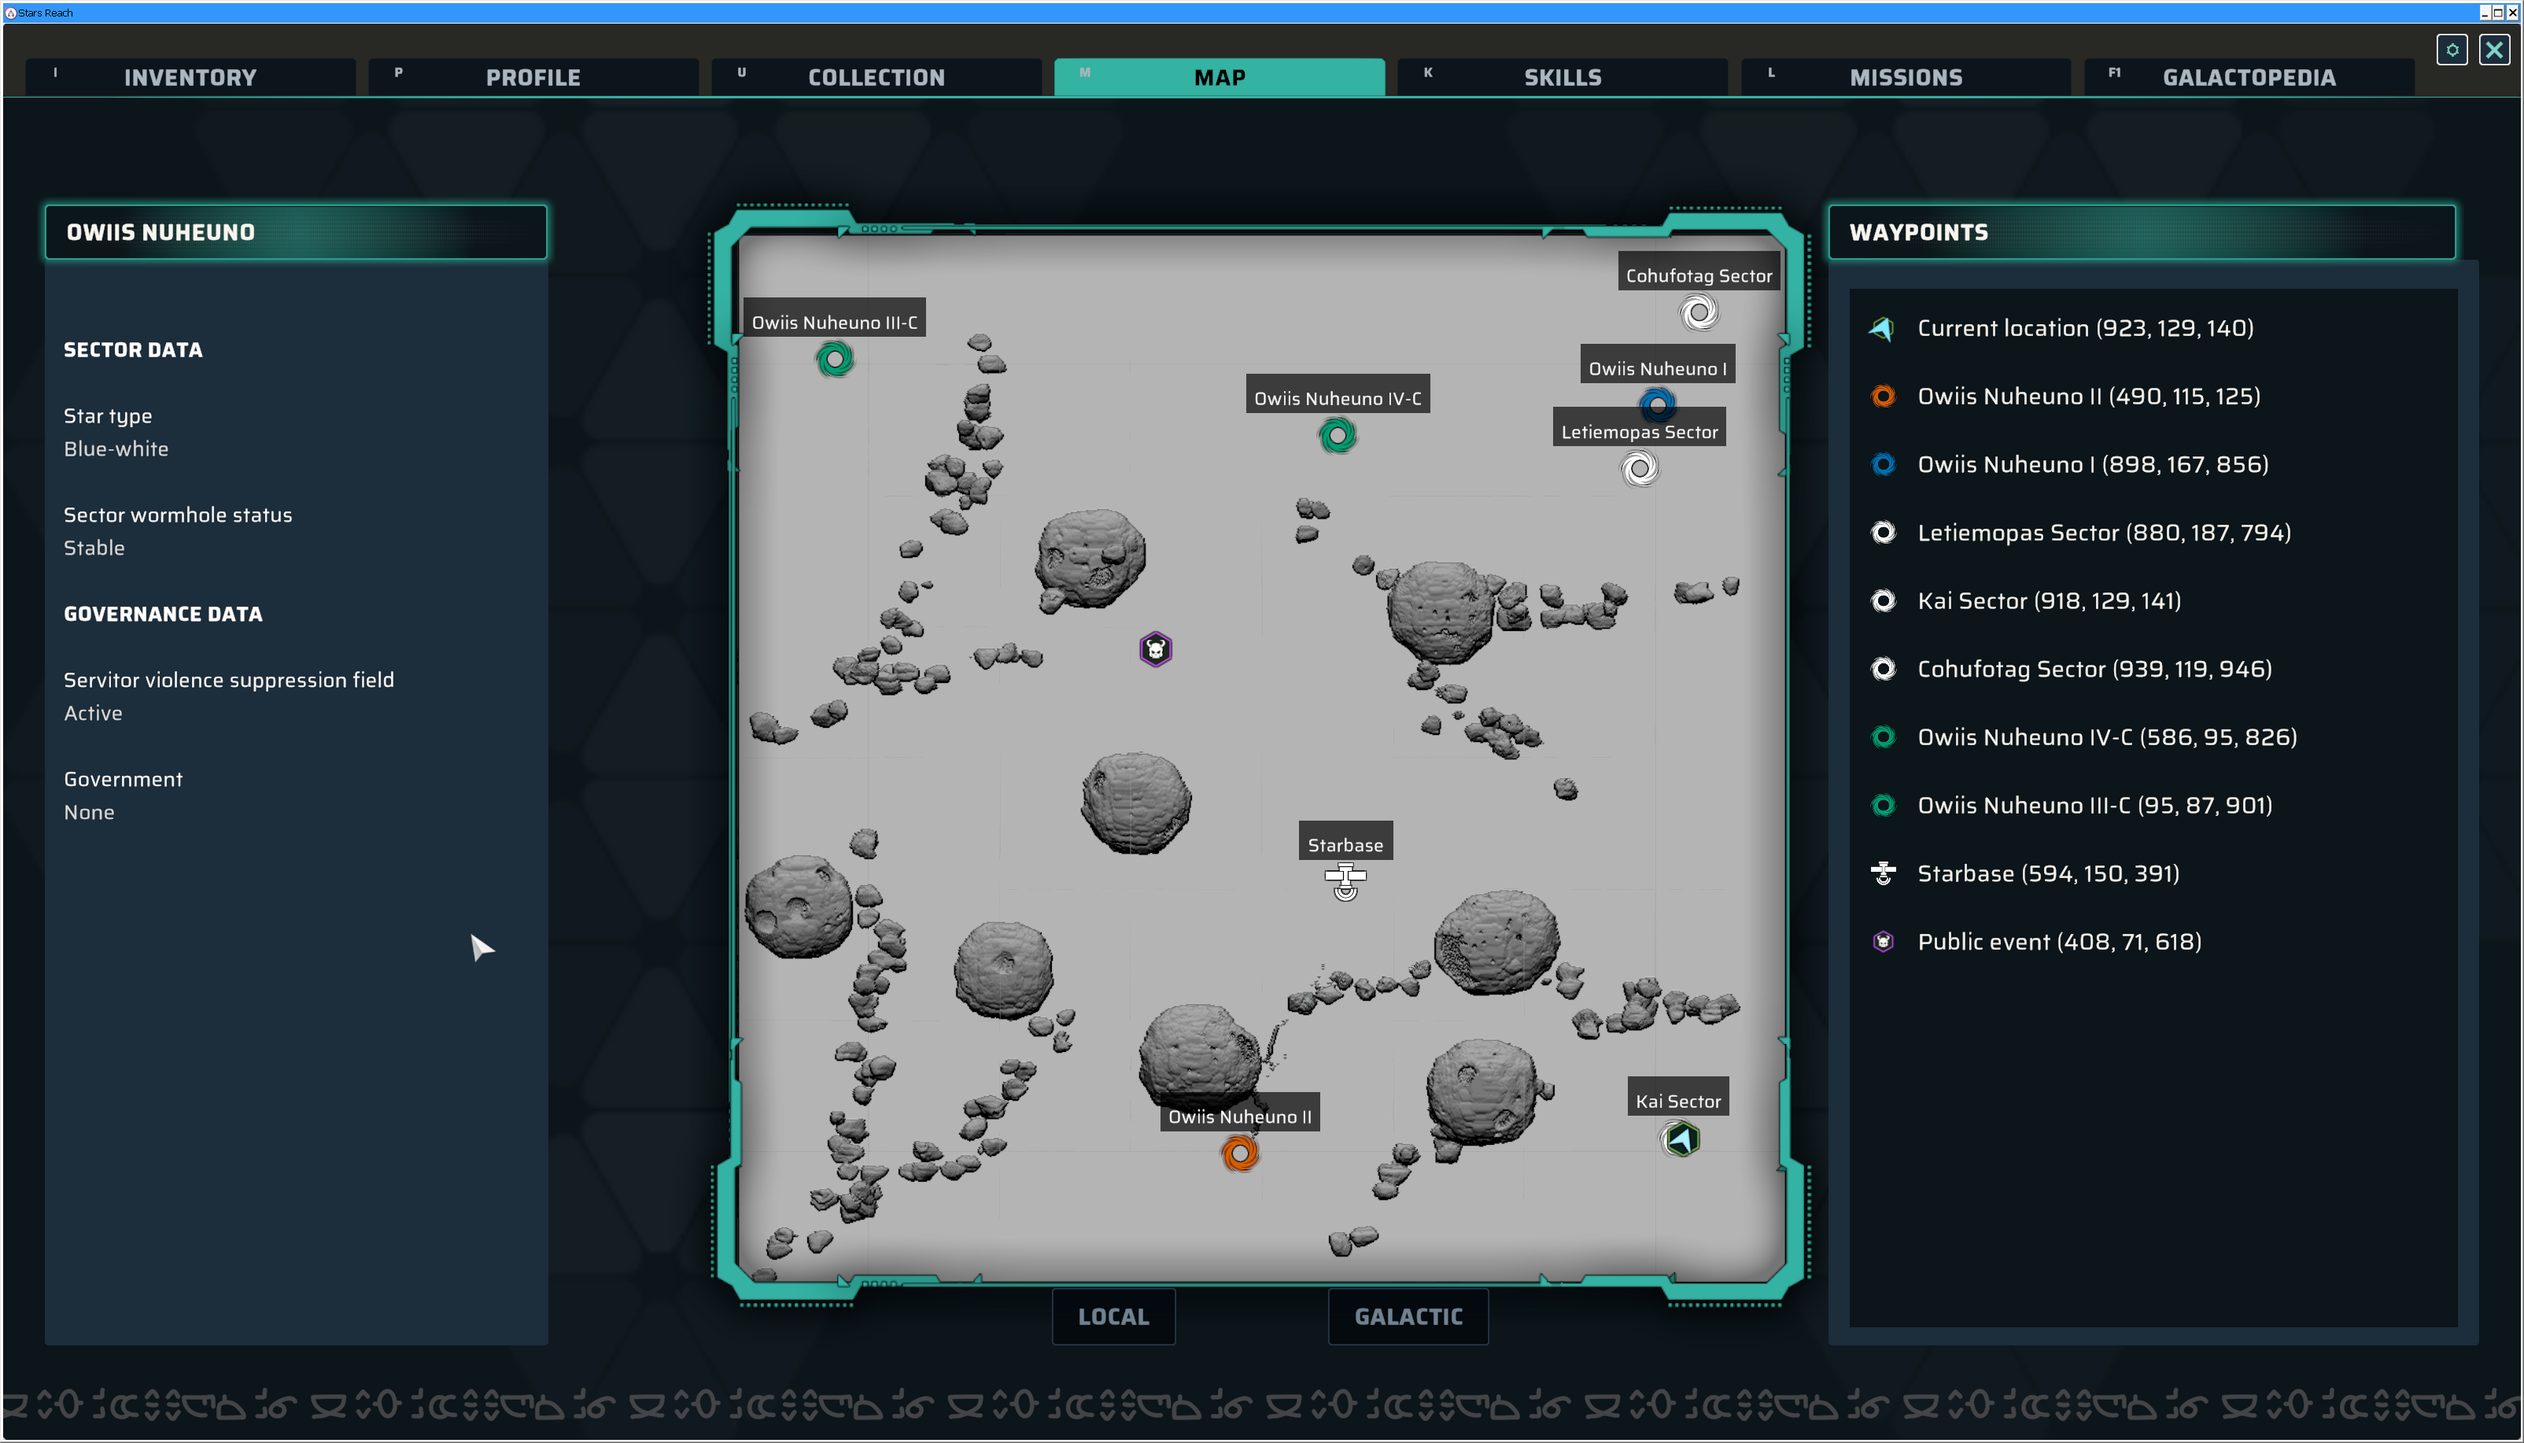
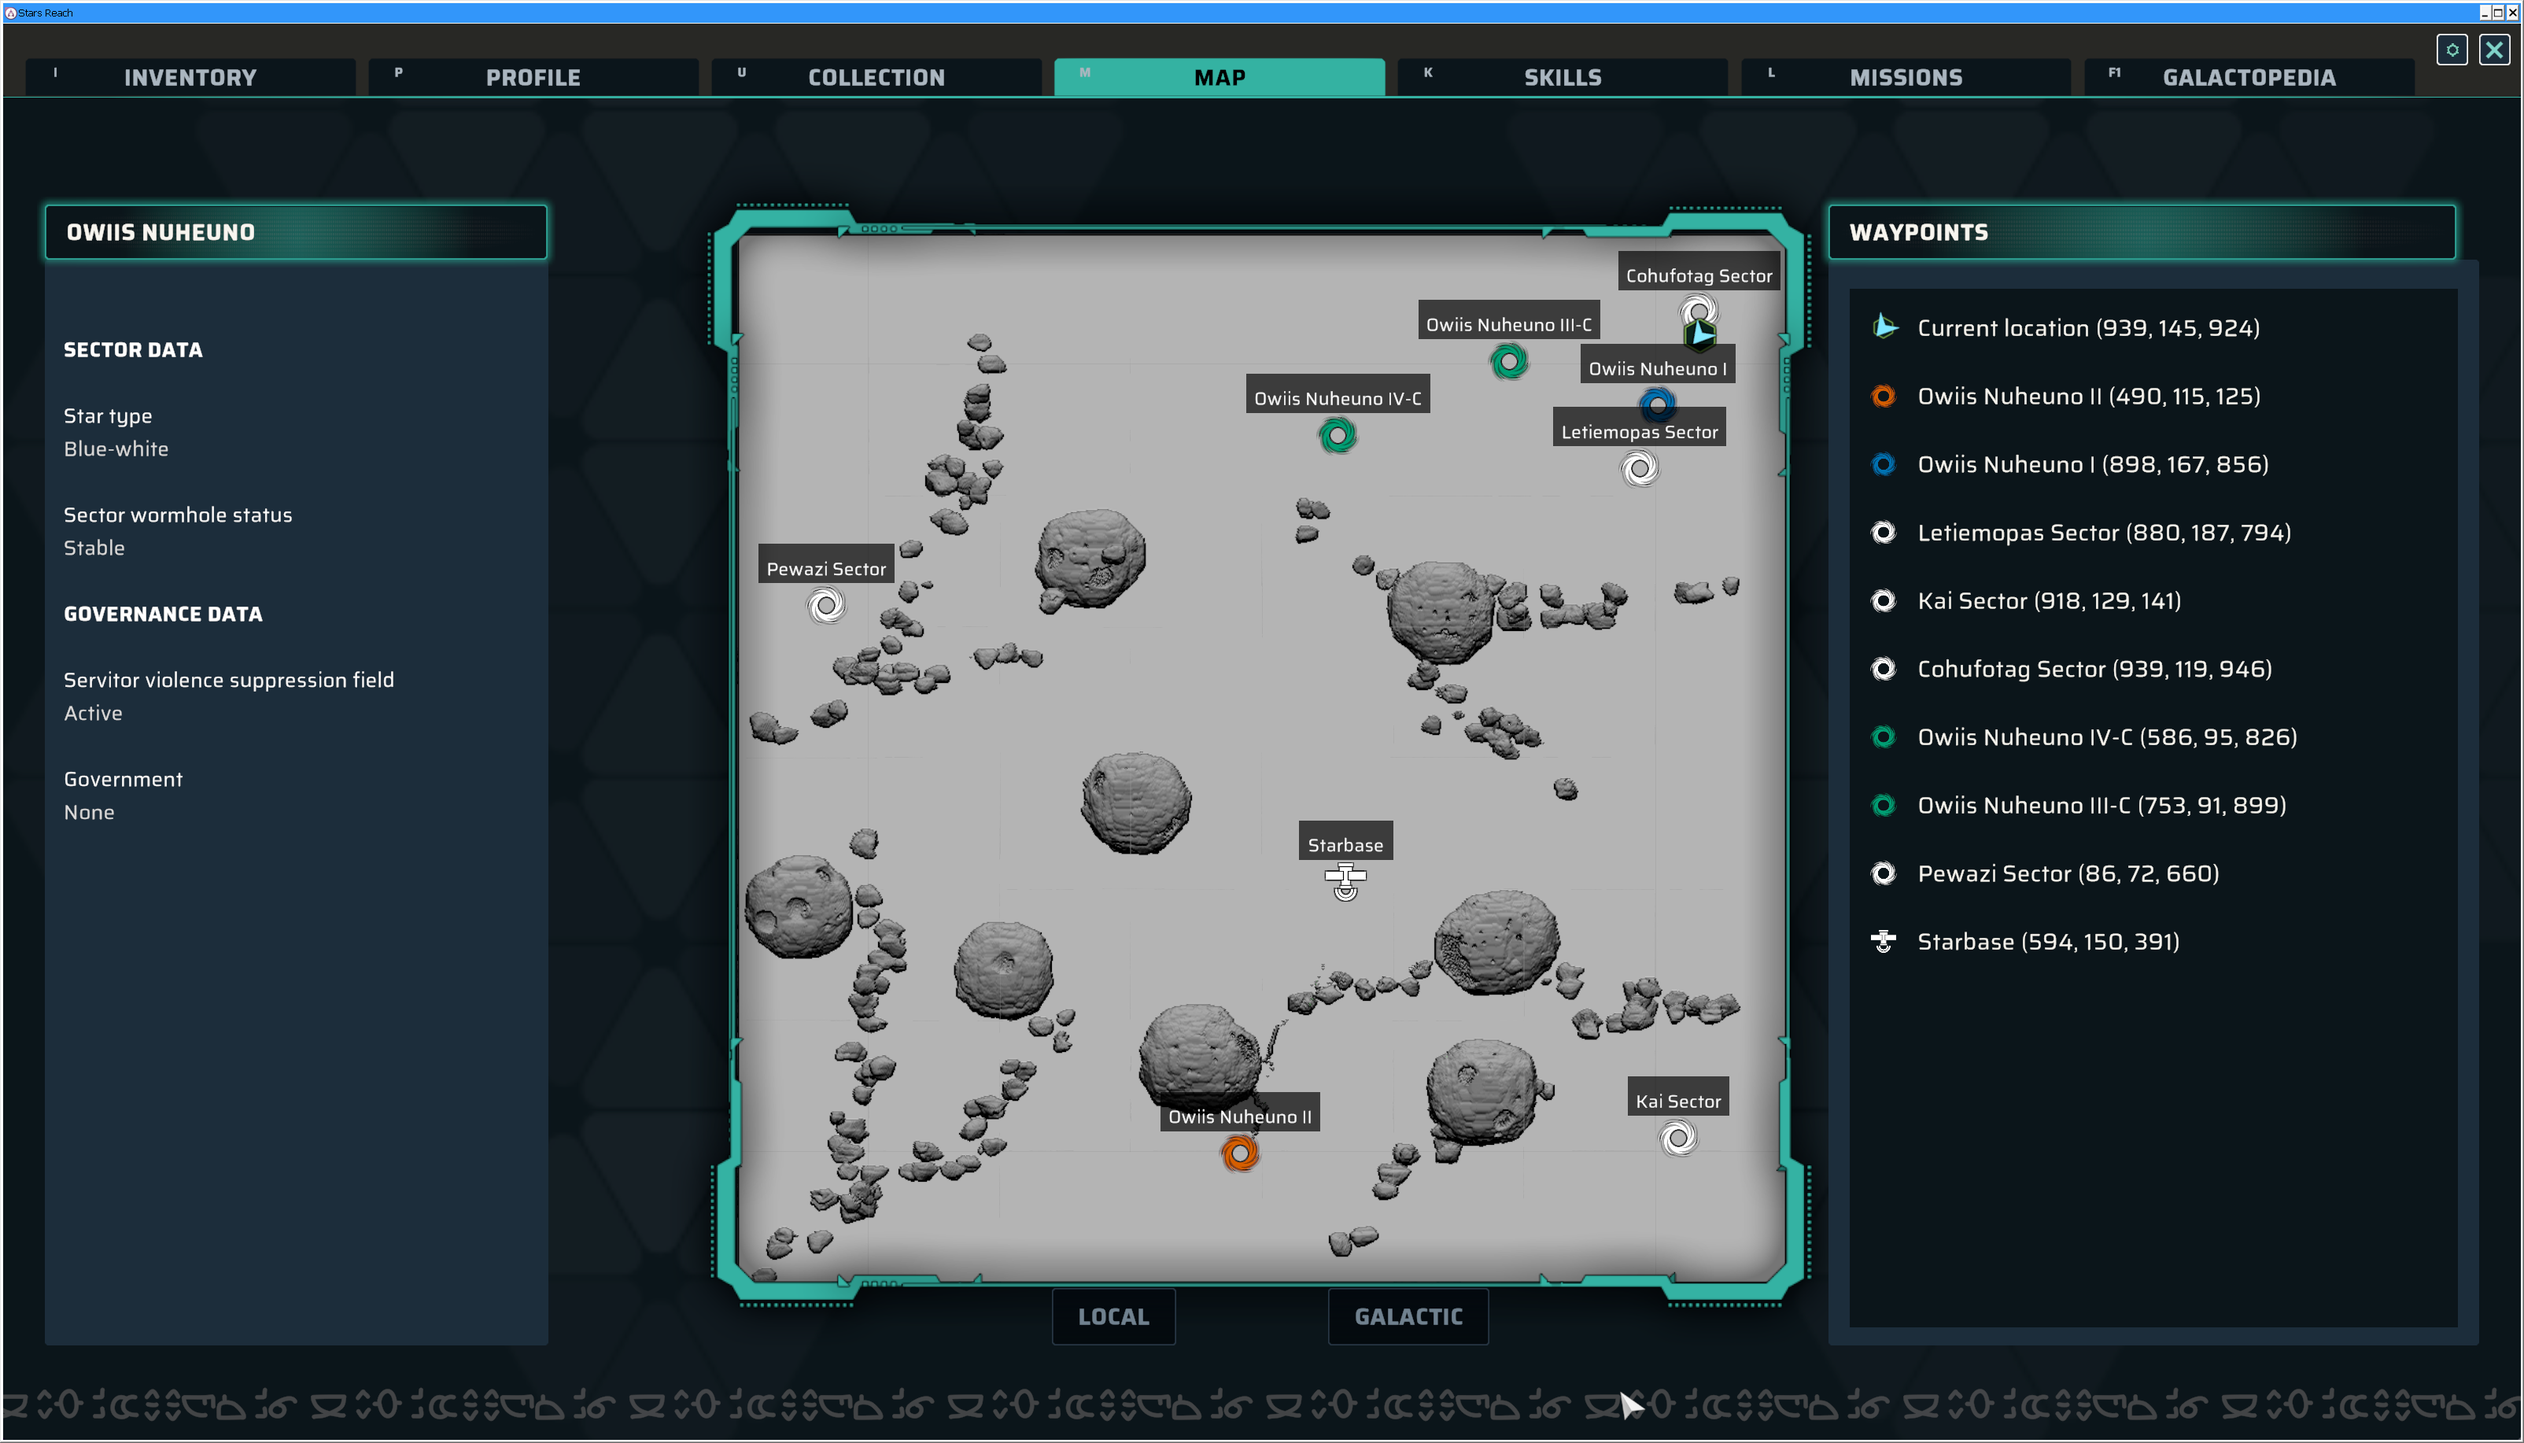
docs: add the Owiis Nuheuno I govbot capture and refresh two maps
The govbot capture adds population, mineral and flora edicts for
Owiis Nuheuno I, and its map recapture adds the Pewazi connection to
the sector's own section.

Claude-Session: https://claude.ai/code/session_01C4zzDpdbtG96xS81ixy1CK

diff --git a/Sectors.md b/Sectors.md
@@ -119,8 +119,13 @@ graph LR
   - Cohufotag
   - Kai
   - Letiemopas
+  - Pewazi
 - Planets
   - Owiis Nuheuno I
+    - Population: 100
+    - Mineral Edicts: Lapis Lazuli, Gold, Amethyst, Magnetized Iron
+    - Flora Edicts: Banyan, Truffula, Papaya
+    - Fauna Edicts: None
   - Owiis Nuheuno II
   - Owiis Nuheuno III-C
   - Owiis Nuheuno IV-C
